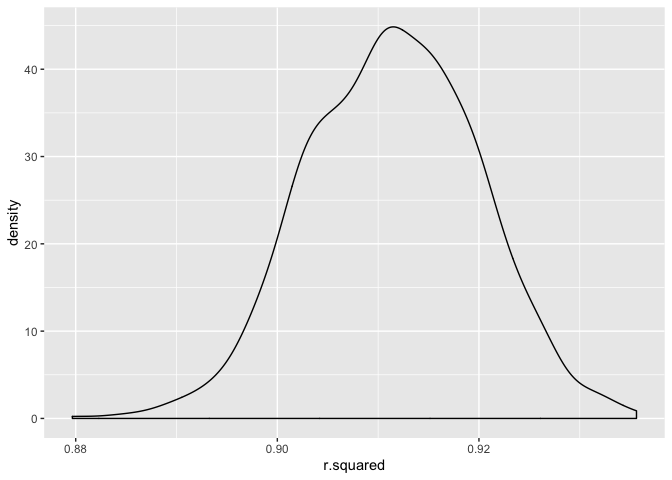
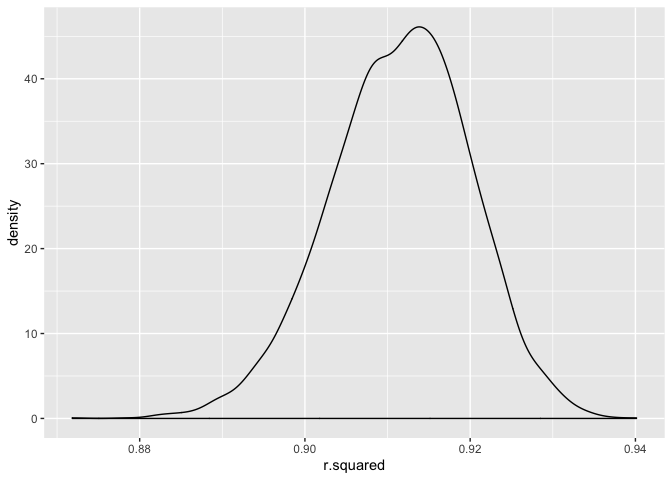
finished!

diff --git a/p8105_hw6_ql2370.md b/p8105_hw6_ql2370.md
@@ -149,15 +149,15 @@ cv_df %>% pull(train) %>% .[[3]] %>% as_tibble
     ##    babysex bhead blength   bwt delwt fincome frace gaweeks malform menarche
     ##    <fct>   <int>   <int> <int> <int>   <int> <fct>   <dbl> <fct>      <int>
     ##  1 2          34      51  3629   177      35 1        39.9 0             13
-    ##  2 1          34      48  3062   156      65 2        25.9 0             14
-    ##  3 1          34      52  3062   157      55 1        40   0             14
-    ##  4 2          34      52  3374   156       5 1        41.6 0             13
-    ##  5 1          33      52  3374   129      55 1        40.7 0             12
+    ##  2 1          34      52  3062   157      55 1        40   0             14
+    ##  3 2          34      52  3374   156       5 1        41.6 0             13
+    ##  4 1          33      52  3374   129      55 1        40.7 0             12
+    ##  5 2          33      46  2523   126      96 2        40.3 0             14
     ##  6 2          33      49  2778   140       5 1        37.4 0             12
-    ##  7 1          33      50  3459   169      75 2        40.7 0             12
-    ##  8 2          33      49  2551   120      75 2        38.1 0             11
-    ##  9 1          35      56  3232   147      55 1        42.1 0             13
-    ## 10 2          36      52  3629   154      65 1        40.3 0             11
+    ##  7 1          36      52  3515   146      85 1        40.3 0             11
+    ##  8 1          33      50  3459   169      75 2        40.7 0             12
+    ##  9 2          35      51  3317   130      55 1        43.4 0             13
+    ## 10 2          35      48  3175   158      75 1        39.7 0             13
     ## # … with 3,463 more rows, and 10 more variables: mheight <int>,
     ## #   momage <int>, mrace <fct>, parity <int>, pnumlbw <int>, pnumsga <int>,
     ## #   ppbmi <dbl>, ppwt <int>, smoken <dbl>, wtgain <int>
@@ -234,7 +234,7 @@ r_sq = broom::glance(bootstp_lm)[,1]
 
 ``` r
 plot_r = weather_df %>% 
-  modelr::bootstrap(n = 1000) %>% 
+  modelr::bootstrap(n = 5000) %>% 
   mutate(
     models = map(strap, ~ lm(tmax ~ tmin, data = .x)),
     results = map(models, broom::glance)) %>% 
@@ -250,28 +250,50 @@ ggplot(data = plot_r, aes(x = r.squared)) + geom_density()
 
 ``` r
 plot_b = weather_df %>% 
-  modelr::bootstrap(n = 1000) %>% 
+  modelr::bootstrap(n = 5000) %>% 
   mutate(
     models = map(strap, ~ lm(tmax ~ tmin, data = .x)),
     results = map(models, broom::tidy)) %>% 
   select(results) %>% 
   unnest(results) 
 
-even_idx = seq(2,2000,2)
-odd_idx = seq(1,2000,2)
+even_idx = seq(2,5000,2)
+odd_idx = seq(1,5000,2)
 
 b0_set = data.frame(b0 = plot_b$estimate[odd_idx])
 b1_set = data.frame(b1 = plot_b$estimate[even_idx])
-est_set = b0_set * b1_set 
+est_set = log(b0_set * b1_set )
 
 ggplot(data = est_set, aes(x =b0)) +
   geom_density() +
-  labs(x = "b0 * b1")
+  labs(x = "Log(b0 * b1)")
 ```
 
 ![](p8105_hw6_ql2370_files/figure-gfm/unnamed-chunk-12-1.png)<!-- -->
 
+The plots above show that the distributions of log(b0 times b1) seems
+like normal after bootstraping samples to analyze the association
+between tmax and min. R square after bootstraping mainly lays on 0.90 to
+0.92, which means the model is real good for statstical standard, but
+this distribution has a heavy tail extending to low values and a bit of
+a “shoulder”, features that may be related to the frequency with which
+large outliers are included in the bootstrap sample.
+
 ``` r
 r_CI =  quantile(plot_r$r.squared, probs=c(0.025, 0.975), na.rm=TRUE)
-log_b_CI = quantile(log(est_set$b0), probs=c(0.025, 0.975), na.rm=TRUE)
+log_b_CI = quantile(est_set$b0, probs=c(0.025, 0.975), na.rm=TRUE)
 ```
+
+``` r
+r_CI
+```
+
+    ##      2.5%     97.5% 
+    ## 0.8941487 0.9272969
+
+``` r
+log_b_CI
+```
+
+    ##     2.5%    97.5% 
+    ## 1.966948 2.059375
